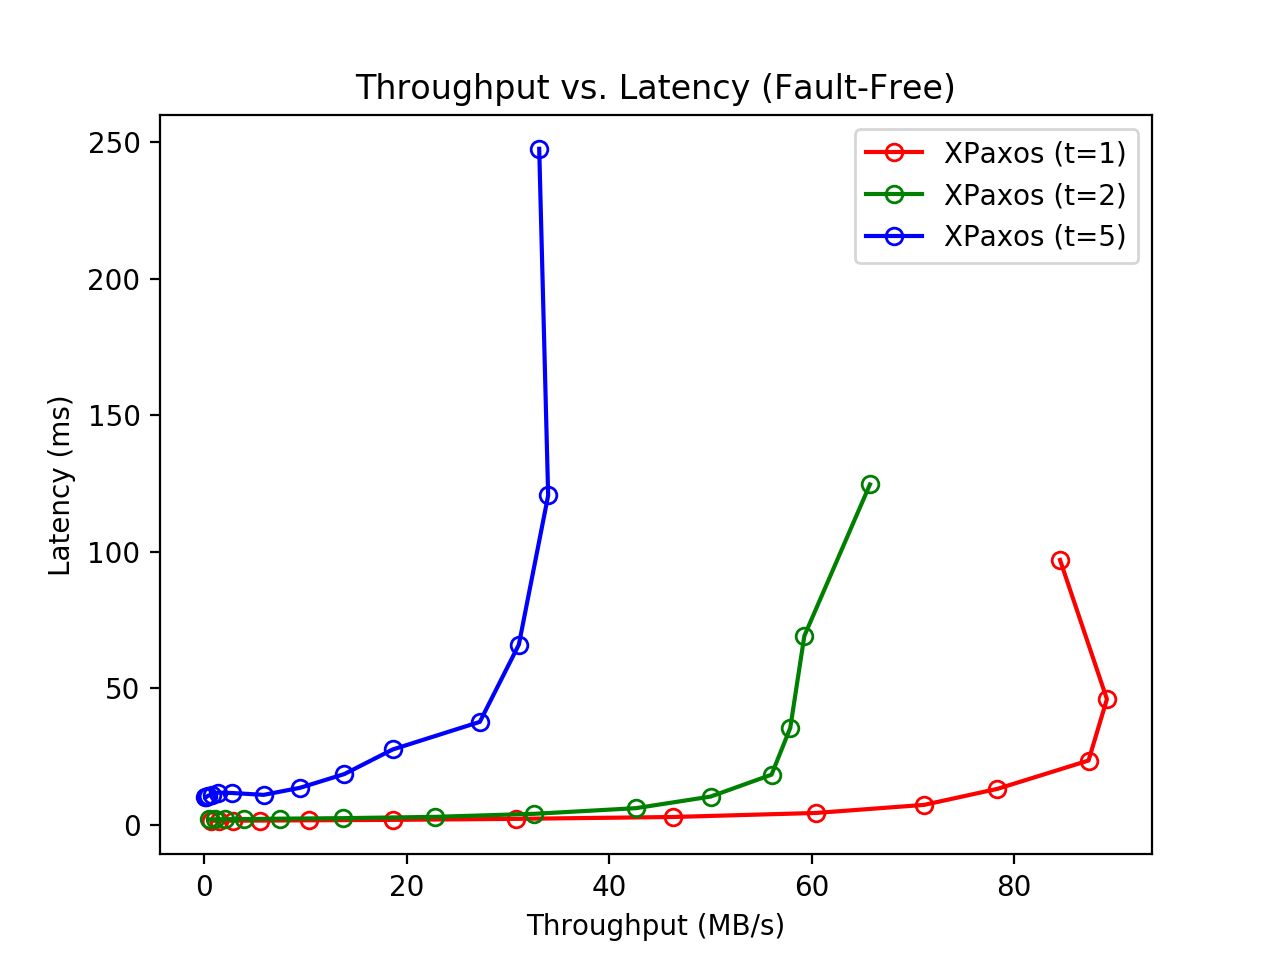
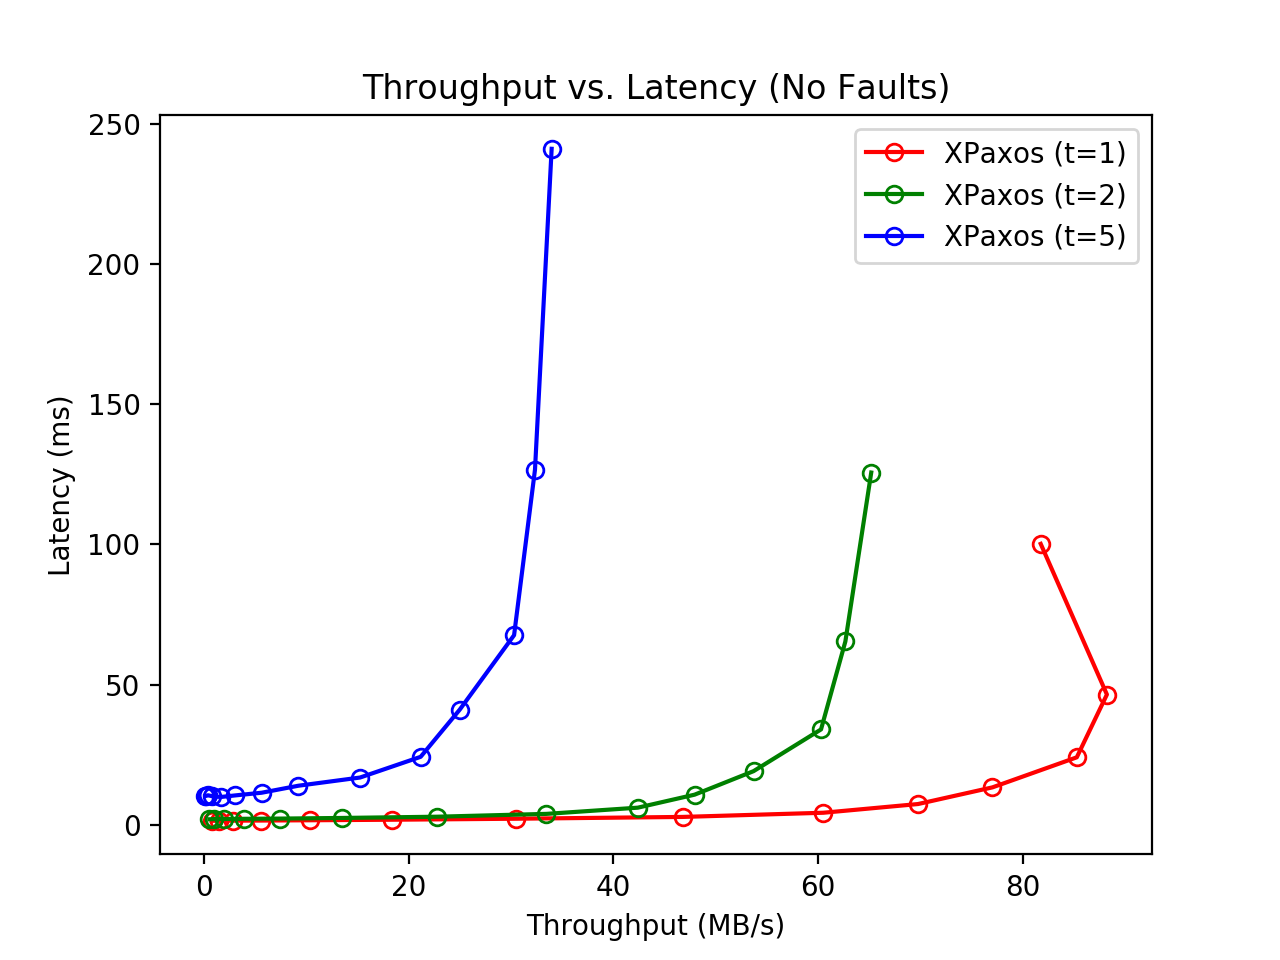
Added graphs for single crash faults

diff --git a/graphs/plot_graphs.py b/graphs/plot_graphs.py
@@ -1,6 +1,16 @@
 import numpy as np
 from matplotlib import pyplot as plt
 
+def process_output_file(filename):
+	latencies = []
+
+	with open(filename, "r") as fp:
+		for line in fp.readlines():
+			if line.split()[-1] == "ns/op":
+				latencies.append(int(line.split()[-2]))
+
+	return latencies, len(latencies)
+
 def calc_throughput_and_latency(latencies, op_size=1024, num_benchmarks=14):
 	op_sizes = [op_size]
 
@@ -18,7 +28,7 @@ def plot_throughput_vs_latency_1(n, xpaxos_latencies, paxos_latencies):
 	paxos_throughput, paxos_latencies = calc_throughput_and_latency(paxos_latencies)
 
 	plt.figure()
-	plt.title("Throughput vs. Latency (Fault-Free)")
+	plt.title("Throughput vs. Latency (No Faults)")
 	plt.plot(xpaxos_throughput, xpaxos_latencies, "ro-", mfc="none", label="XPaxos (t={0})".format(n // 2))
 	plt.plot(paxos_throughput, paxos_latencies, "go-", mfc="none", label="Paxos (t={0})".format(n // 2))
 	plt.xlabel("Throughput (MB/s)")
@@ -32,7 +42,7 @@ def plot_throughput_vs_latency_2(latencies_3, latencies_5, latencies_11):
 	throughput_11, latencies_11 = calc_throughput_and_latency(latencies_11)
 
 	plt.figure()
-	plt.title("Throughput vs. Latency (Fault-Free)")
+	plt.title("Throughput vs. Latency (No Faults)")
 	plt.plot(throughput_3, latencies_3, "ro-", mfc="none", label="XPaxos (t=1)")
 	plt.plot(throughput_5, latencies_5, "go-", mfc="none", label="XPaxos (t=2)")
 	plt.plot(throughput_11, latencies_11, "bo-", mfc="none", label="XPaxos (t=5)")
@@ -41,29 +51,49 @@ def plot_throughput_vs_latency_2(latencies_3, latencies_5, latencies_11):
 	plt.legend()
 	plt.show()
 
-if __name__ == "__main__":
-	 # Number of servers = 3 (t=1)
-	xpaxos_latencies_3 = [1370523, 1403328, 1414017, 1458120, 1548804, 1718874, 2079989,
-		2764268, 4238630, 7200030, 13070145, 23446588, 45938973, 96908592]
+def plot_time_vs_throughput(n, filename1, filename2, op_size=262144):
+	latencies1, length = process_output_file(filename1)
+	latencies2, _ = process_output_file(filename2)
 
-	paxos_latencies_3 = [726676, 753971, 769380, 804065, 850515, 959943, 1105449, 
+	latencies = latencies1[:length // 2] + latencies2[:1] + latencies1[length // 2:]
+	latencies = np.array(latencies) / 1e6
+	throughput = (op_size / 1024) / latencies
+	throughput[length // 2 - 1] = throughput[length // 2] # Correction that makes graph more readable
+
+	plt.figure()
+	plt.title("Time vs. Throughput (Single Crash Fault)")
+	plt.plot(np.cumsum(latencies / 1e3), throughput, "b-", label="XPaxos (t={0})".format(n // 2))
+	plt.xlabel("Time (s)")
+	plt.ylabel("Throughput (MB/s)")
+	plt.legend(loc=3)
+	plt.show()
+
+if __name__ == "__main__":
+	 # Benchmark_3_0 - Number of XPaxos servers = 3 (t=1), No Faults, Network delta = 50ms
+	xpaxos_latencies_3_0 = [1356030, 1384204, 1410490, 1445985, 1548104, 1740073, 2096868,
+		2738180, 4230884, 7339803, 13293167, 24017686, 46432827, 100212926]
+
+	paxos_latencies_3_0 = [726676, 753971, 769380, 804065, 850515, 959943, 1105449, 
 		1282887, 1958755, 2912091, 4547516, 8552241, 16787261, 36280343]
 
-	# Number of servers = 5 (t=2)
-	xpaxos_latencies_5 = [1880869, 1925783, 1954873, 2007609, 2147153, 2336045, 2810776, 
-		3925262, 6001965, 10236870, 18271642, 35378452, 69094325, 124575934]
+	# Benchmark_5_0 - Number of XPaxos servers = 5 (t=2), No Faults, Network delta = 50ms
+	xpaxos_latencies_5_0 = [1902003, 1973498, 2012234, 2068098, 2145884, 2372787, 2813421, 
+		3826190, 6041209, 10682907, 19073795, 33974850, 65369896, 125670701]
 
-	paxos_latencies_5 = [1411875, 1340863, 1360656, 1339810, 1469436, 1682367, 1958918, 
+	paxos_latencies_5_0 = [1411875, 1340863, 1360656, 1339810, 1469436, 1682367, 1958918, 
 		2555338, 3420035, 5501513, 8208274, 15135304, 32572484, 70068151]
 
-	# Number of servers = 11 (t=5)
-	xpaxos_latencies_11 = [10001447, 10013064, 10552734, 10844408, 11691880, 11553041, 10873228, 
-		13479840, 18486121, 27493842, 37603711, 65881652, 120539304, 247515066]
+	# Benchmark_11_0 - Number of XPaxos servers = 11 (t=5), No Faults, Network delta = 50ms
+	xpaxos_latencies_11_0 = [10214935, 10240691, 10465488, 10135348, 9853552, 10427422, 11377794, 
+		13879637, 16800463, 24196789, 41005313, 67615353, 126686864, 241231328]
 
-	paxos_latencies_11 = [3174589, 3095474, 3142733, 3283624, 3420335, 4018418, 4657095, 
+	paxos_latencies_11_0 = [3174589, 3095474, 3142733, 3283624, 3420335, 4018418, 4657095, 
 		6219817, 8788313, 14276049, 20237393, 37946124, 78068078, 179761933]
 
-	plot_throughput_vs_latency_1(3, xpaxos_latencies_3, paxos_latencies_3)
-	plot_throughput_vs_latency_1(5, xpaxos_latencies_5, paxos_latencies_5)
-	plot_throughput_vs_latency_1(11, xpaxos_latencies_11, paxos_latencies_11)
-	plot_throughput_vs_latency_2(xpaxos_latencies_3, xpaxos_latencies_5, xpaxos_latencies_11)
+	plot_throughput_vs_latency_1(3, xpaxos_latencies_3_0, paxos_latencies_3_0)
+	plot_throughput_vs_latency_1(5, xpaxos_latencies_5_0, paxos_latencies_5_0)
+	plot_throughput_vs_latency_1(11, xpaxos_latencies_11_0, paxos_latencies_11_0)
+	plot_throughput_vs_latency_2(xpaxos_latencies_3_0, xpaxos_latencies_5_0, xpaxos_latencies_11_0)
+	#plot_time_vs_throughput(3, "output_3_0_256kB.txt", "output_3_R_256kB.txt")
+	#plot_time_vs_throughput(5, "output_5_0_256kB.txt", "output_5_R_256kB.txt")
+	#plot_time_vs_throughput(11, "output_11_0_256kB.txt", "output_11_R_256kB.txt")
